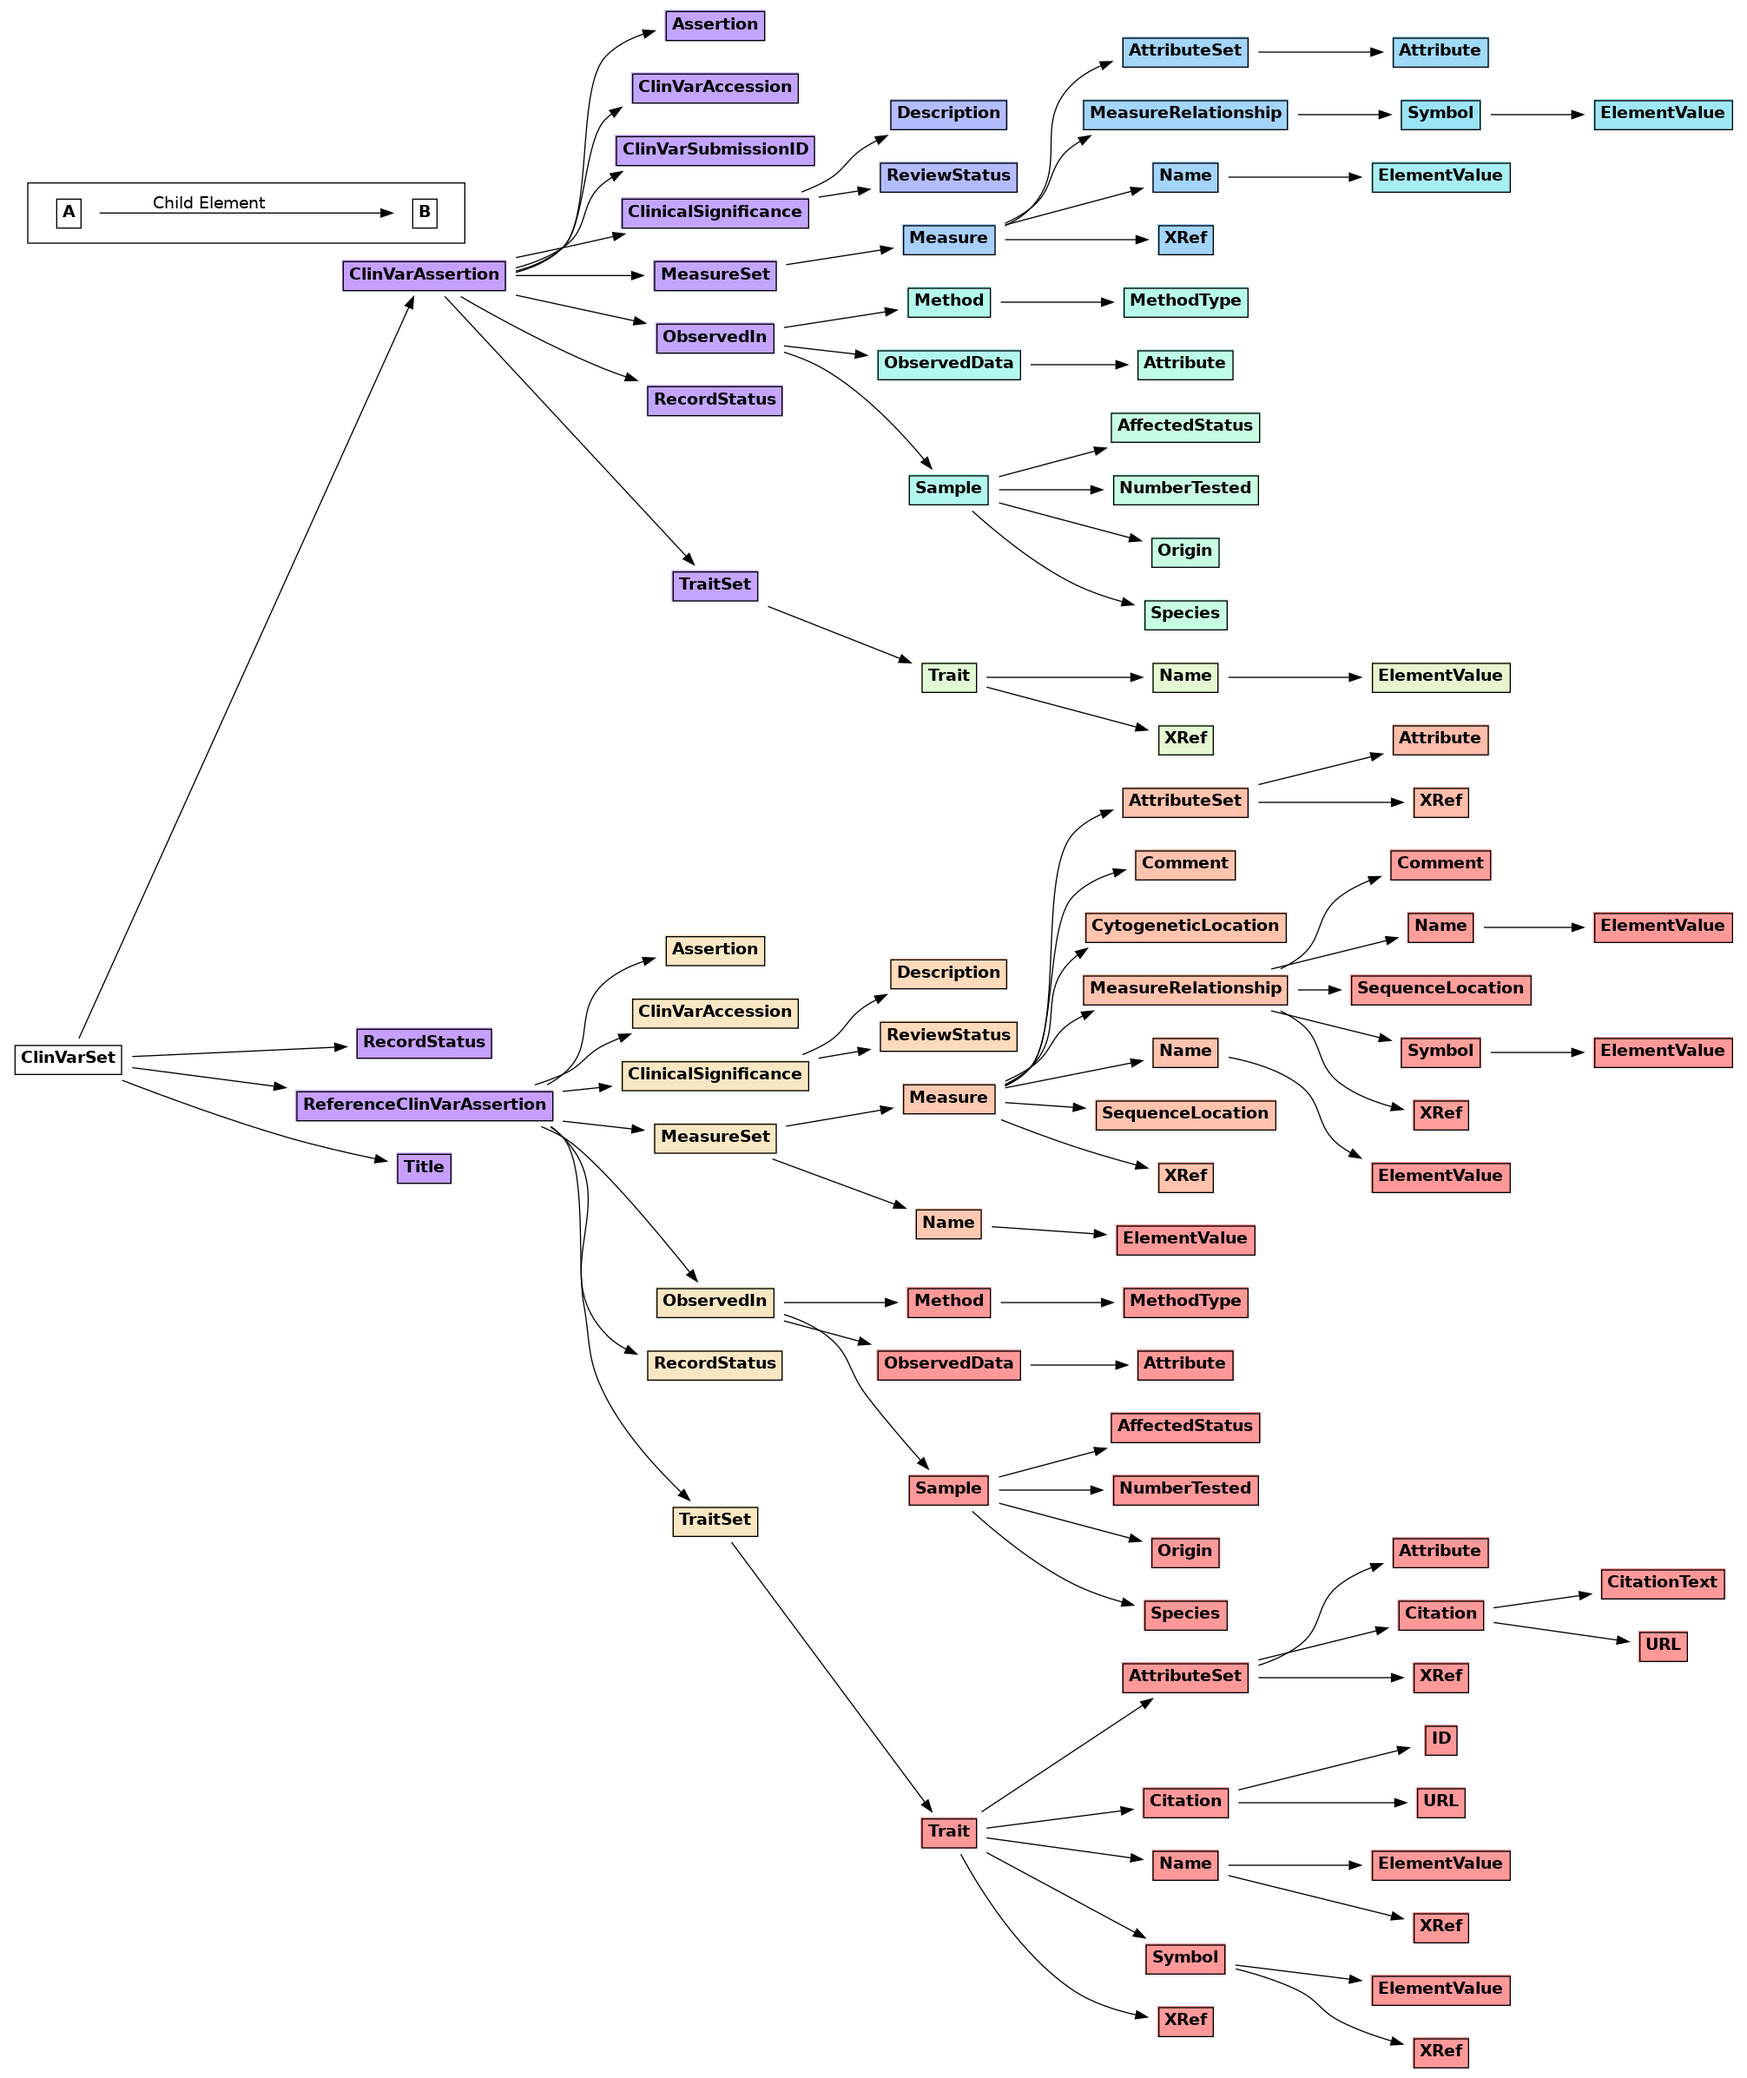
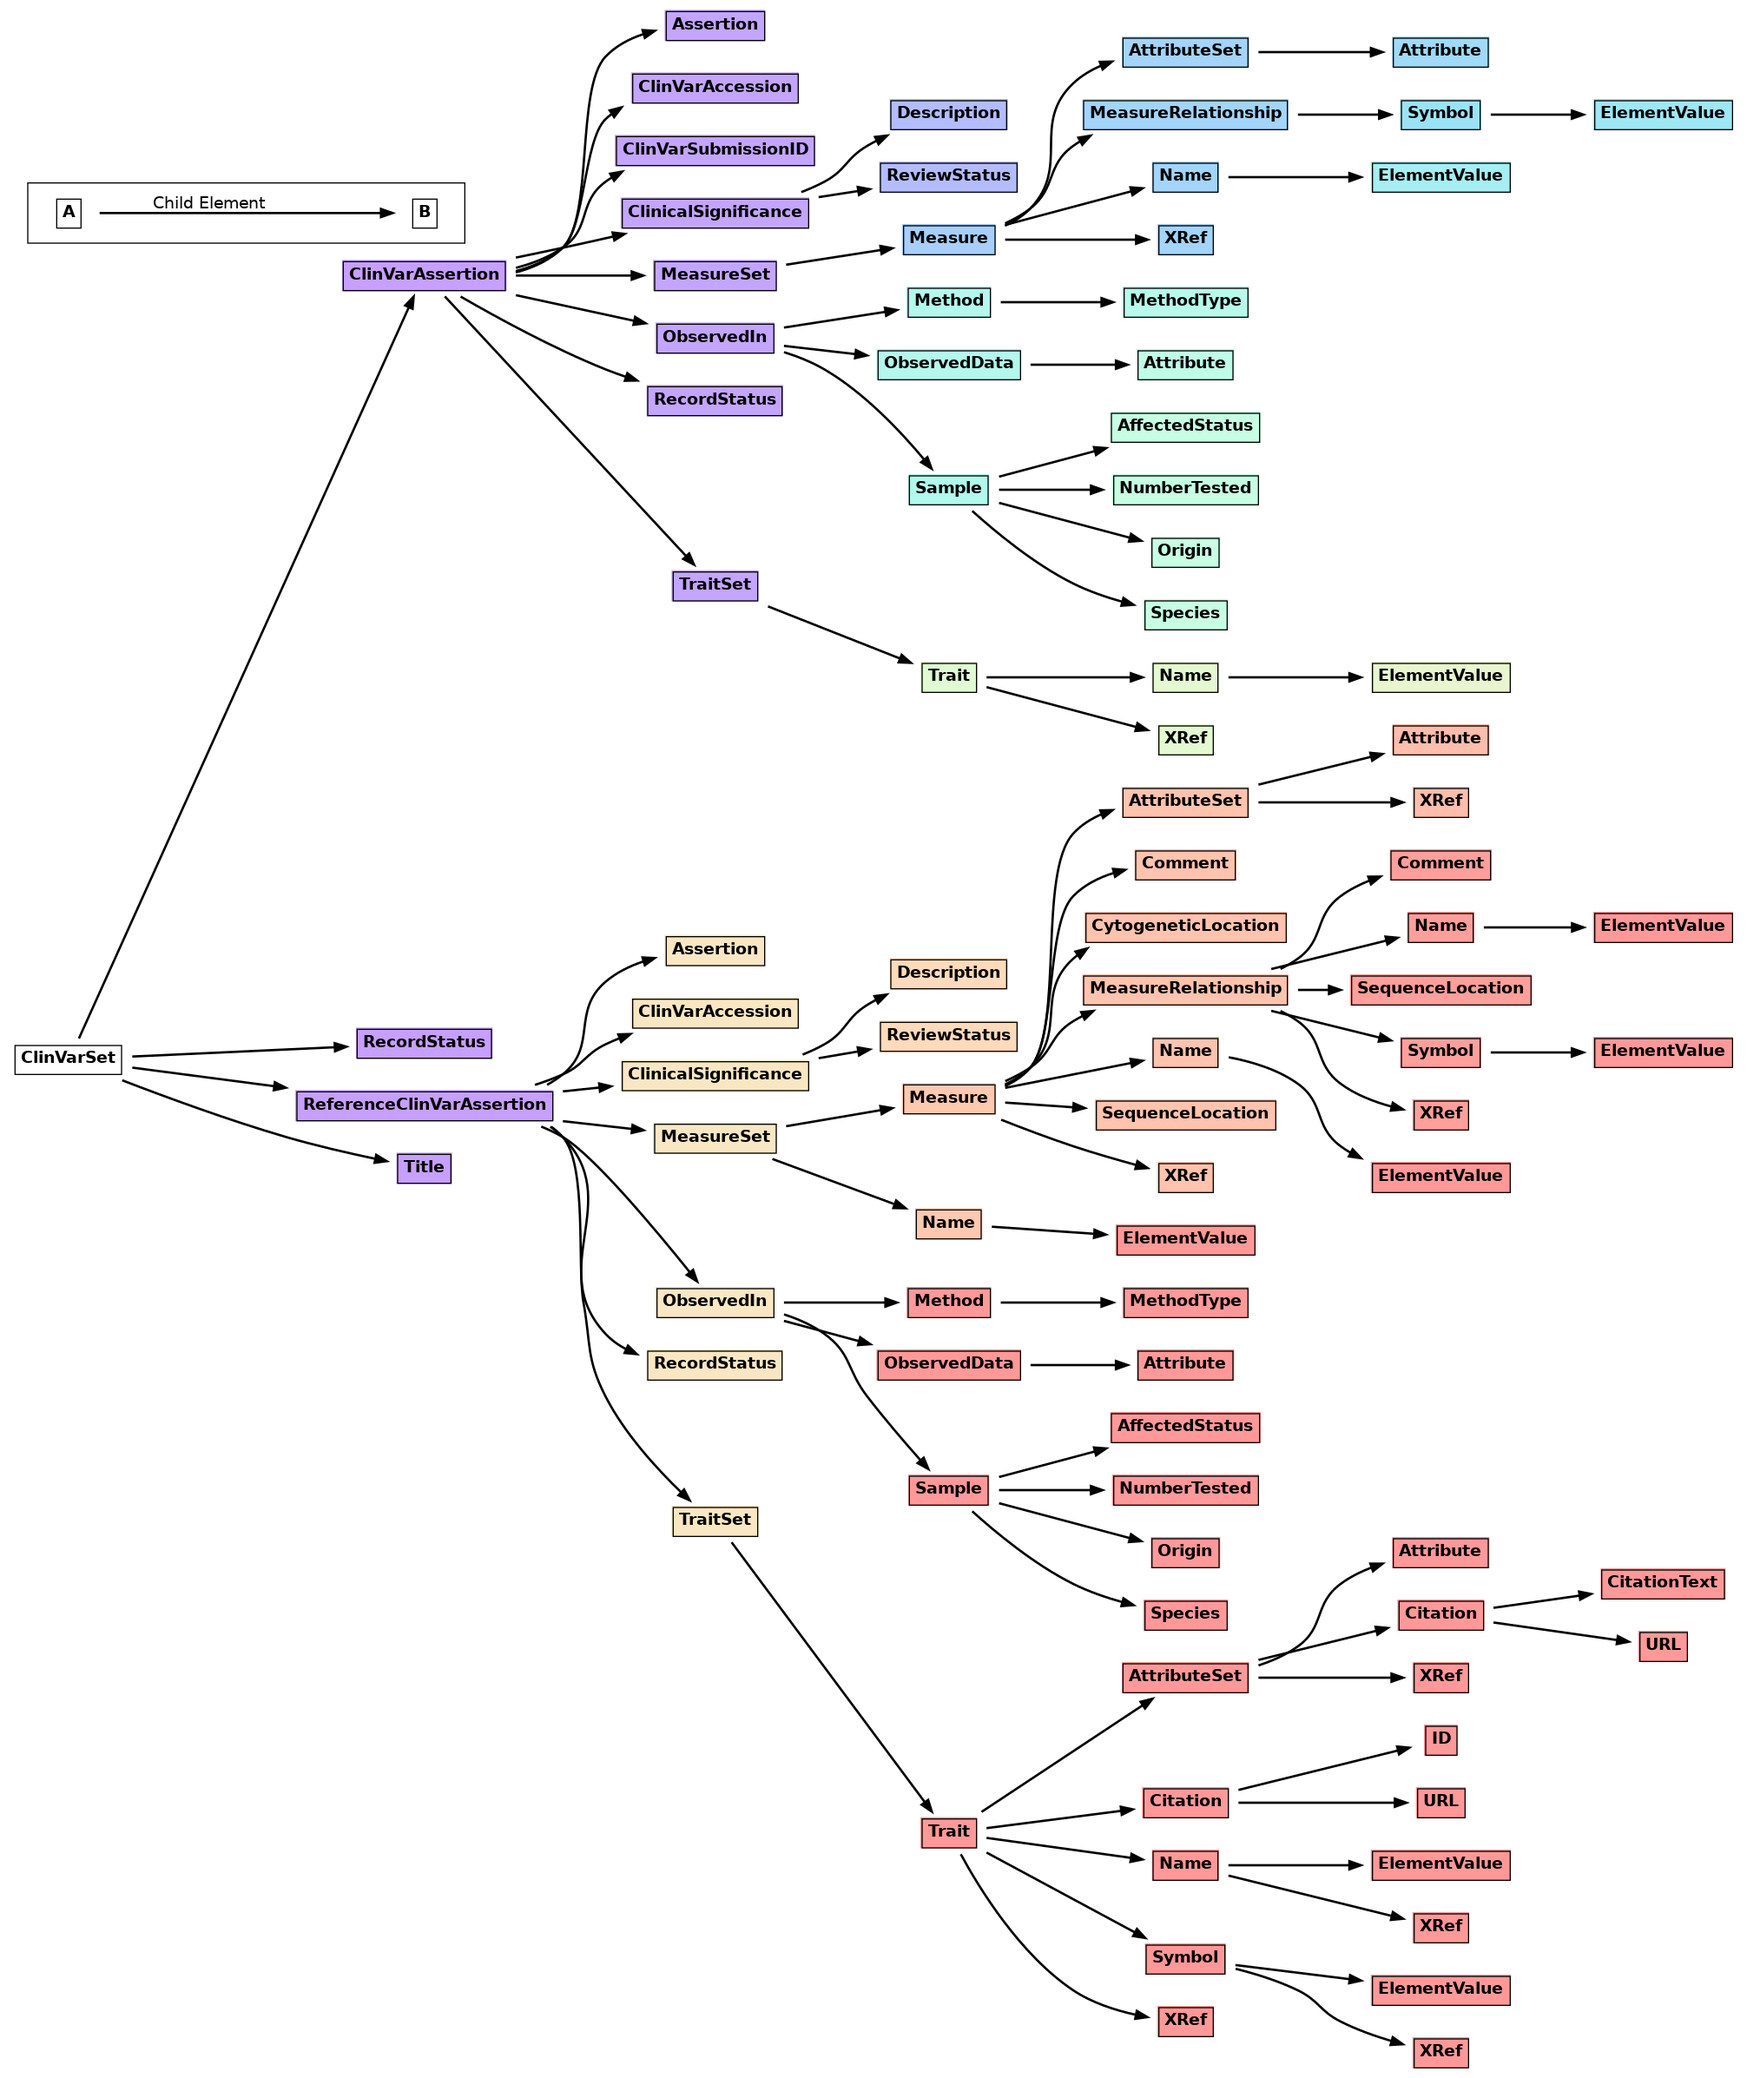
Add `PENMIN` parameter; fixes readability issus in large-scae PNG output files

diff --git a/xpath2dot.py b/xpath2dot.py
@@ -33,6 +33,7 @@
 def sanitize(s):
     return s.replace(r' !"#$%&\'()*+,-./:;<=>?@[\\]^`{|}~/', "__")
 
+PENMIN = 2
 PENMAX = 5  # max penwidth
 RANKDIR = "LR"
 FONTNAME = "Roboto"
@@ -198,22 +199,22 @@ for n in node:
 # and not reuse of a particular element
 print()
 for e in edge:
-    print(f"    {e[0]} -> {e[1]} [penwidth = \"{edge[e]/norm:.3f}\", weight = \"{edge[e]:.3f}\"];")
+    print(f"    {e[0]} -> {e[1]} [penwidth = \"{PENMIN+(edge[e]/norm-1):.3f}\", weight = \"{edge[e]:.3f}\"];")
 
 print()
 for e in edge2:
-    print(f"    {e[0]} -> {e[1]} [penwidth = \"{edge2[e]/norm2:.3f}\", weight = \"{edge2[e]:.3f}\", style = dashed, dir = both];")
+    print(f"    {e[0]} -> {e[1]} [penwidth = \"{PENMIN+(edge2[e]/norm2-1):.3f}\", weight = \"{edge2[e]:.3f}\", style = dashed, dir = both];")
 
 print()
 print("subgraph cluster_01{")
 if edge:
     print(f"    A1 [label = {gtable(ghead('A'))} shape = none];")
     print(f"    B1 [label = {gtable(ghead('B'))} shape = none];")
-    print(f"    A1 -> B1 [label = \"Child Element\", penwidth = \"1\", weight = \"1\"];")
+    print(f"    A1 -> B1 [label = \"Child Element\", penwidth = \"{PENMIN}\", weight = \"1\"];")
 if edge2:
     print(f"    A2 [label = {gtable(ghead('A'))} shape = none];")
     print(f"    B2 [label = {gtable(ghead('B'))} shape = none];")
-    print(f"    A2 -> B2 [label = \"Name Reference\", penwidth = \"1\", weight = \"1\", style = dashed, dir = both];")
+    print(f"    A2 -> B2 [label = \"Name Reference\", penwidth = \"{PENMIN}\", weight = \"1\", style = dashed, dir = both];")
 print("}")
 
 print()
